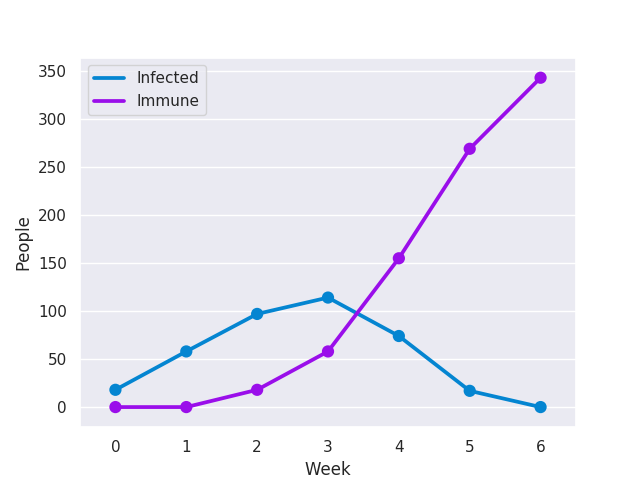
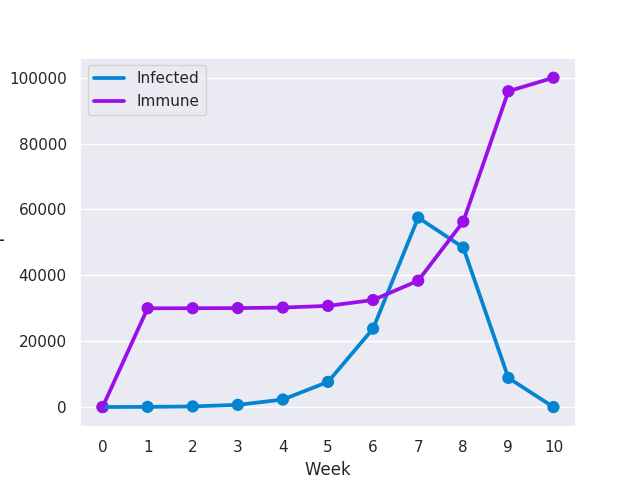
Finished HW2 Code, Messy, No Report

diff --git a/HW_2/spread_of_disease.py b/HW_2/spread_of_disease.py
@@ -9,6 +9,12 @@ The disease lasts three weeks
 Everyone has the same odds of being exposed
 This week there are 40 new cases
 This week, it is estimated that 30% of the existing population is immune because of previous exposure.
+
+The number of infected people surpasses what should actually happen
+* Fix the number of people that get infected
+* Redo the whole thing b/c it would be faster?
+
+
 '''
 
 import numpy as np
@@ -31,22 +37,24 @@ def plot_data(data):
 
     f, ax = plt.subplots(1, 1)
 
-    print(data)
+    # print(data)
 
     sns.pointplot(ax=ax, x="Week_Number", y="Sick_People", data=data, color=sns.xkcd_rgb["cerulean"])
     sns.pointplot(ax=ax, x="Week_Number", y="Immune_People", data=data, color=sns.xkcd_rgb["violet"])
+    sns.pointplot(ax=ax, x="Week_Number", y="Susceptible_People", data=data, color=sns.xkcd_rgb["kelly green"])
 
-    ax.legend(handles=ax.lines[::len(data)+1],  labels=["Infected","Immune","Healthy"])
+    ax.legend(handles=ax.lines[::len(data)+1],  labels=["Infected","Immune","Susceptible"])
 
     plt.xlabel('Week')
     plt.ylabel('People')
 
     plt.show()
 
+
 def infection(total_pop):
 
     week_num = 2
-    immune = 0
+    immune = (total_pop-18)*(.3)
     sick = 58
     vulnerable_pop = total_pop - 18 - 40
 
@@ -61,40 +69,108 @@ def infection(total_pop):
 
     '''
 
-    sick_constant = 0.00057157/15
+    # sick_constant = 0.00057157/15
+    sick_constant = 0.00003175174706050264
 
     # Sick data is the number of people that have the virus
     '''
-    sick_data[0] = Week Number
-    sick_data[1] = Number of Infected
-    sick_data[2] = Number of Immune
-    sick_data[3] = Number of Healthy
+    sick_data[0] = Week_Number
+    sick_data[1] = Sick_People
+    sick_data[2] = New_Cases
+    sick_data[3] = Immune_People
+    sick_data[4] = Got_Better
+    sick_data[5] = Susceptible_People
     '''
-    sick_data = [[0,18,0,100000-18],[1,58,0,100000-58]]
+
+    sick_data = [[0,18,18,0,0,100000-18],[1,58,40,(total_pop-18)*(.3),(total_pop-18)*(.3),100000-18-((total_pop-18)*(.3))]]
+
+    # Current number of people that are susceptible
+    # print(sick_data[week_num-1][-1])
+
+    susceptible = sick_data[1][-1]
+
+    # df.columns = ['Week_Number', 'Sick_People', 'Sick_Delta', 'Immune_People', 'Immune_Delta', 'Susceptible_People']
+
+
     # How many people have the virus to start with
 
     # Pevious data is the number of people that developed
     # the virus for a given week, where week # is given by
     # the index of the element. Yes, weeks start at zero.
+
+    # Change the name of this variable
+    # We no longer even need this variable
+
     prev_data = [18,40]
 
 
     # while(immune != total_pop):
-    while(immune <= total_pop):
+
+    # while(immune <= total_pop):
+    while(sick > 0):
 
         if(week_num >= 2):
             # People can start to get better
 
             # delta is the number of people that just got the disease this week
 
-            delta = (vulnerable_pop - sick - immune)*(sick_constant)*sick
+            # susceptible = vulnerable_pop - sick - immune
+            # susceptible = sick_data[week_num-1][-1]
+
+            # print(susceptible)
+
+            # if (susceptible < 0):
+            #     susceptible = 0
+
+            '''
+            The number of people that develop the disease is equal to the
+            number of people that can get the disease times the number of
+            interactions susceptible people have with infected, times the
+            probability that one become infected when one interacts with
+            someone that is infected
+            '''
+
+            delta = (susceptible)*sick_data[week_num-1][1]*(sick_constant)
+
 
             # prev_data is the number of people that are now immune
 
-            sick = sick + delta - prev_data[0]
+            # if (sick + delta - prev_data[0] < 0):
+            #     print("Sick: {} Delta: {} Prev_Data[0]: {}".format(sick, delta, prev_data[0]))
+
+            # sick = sick + delta - prev_data[0]
+
+            # print(sick_data[week_num-1][1])
+            # print(delta)
+            # print(sick_data[week_num-2][2])
+
+            if (week_num < 3):
+                sick = sick_data[week_num-1][1] + delta
+
+            # Last term is for people getting better
+
+            elif (week_num >= 3):
+                sick = sick_data[week_num-1][1] + delta - sick_data[week_num-3][2]
+                # print(sick_data[week_num-1][1])
+                # print(delta)
+                # print(sick_data[week_num-3][2])
+
+            # print(sick)
+
+            # print("Prev_Data: {} Sick_Data: {}".format(prev_data[0], sick_data[week_num-3][4]))
+            # print(week_num)
+            # print("Sick_Data: {}".format(sick_data[week_num-3][4]))
 
 
-            immune += prev_data[0]
+            # immune += prev_data[0]
+
+
+            if (week_num < 3):
+                immune += 0
+
+            if (week_num >= 3):
+                immune += sick_data[week_num-3][2]
+
 
             # These prevent the model from producing unrealistic data-points
 
@@ -107,28 +183,70 @@ def infection(total_pop):
             if (sick>100000):
                 sick = 100000
 
-            sick_data.append([week_num, sick, immune, 100000-sick])
 
-            prev_data = adjust_data(prev_data, sick)
+            if (week_num < 3):
+
+                susceptible = sick_data[week_num-1][-1]-delta
+
+                if (susceptible < 0):
+                    susceptible = 0
+
+                # sick_data.append([week_num, sick, delta, immune, 0, sick_data[week_num-1][-1]-delta])
+
+                sick_data.append([week_num, sick, delta, immune, 0, susceptible])
+
+            elif (week_num >= 3):
+
+                susceptible = sick_data[week_num-1][-1]-delta-sick_data[week_num-3][2]
+
+                if (susceptible < 0):
+                    susceptible = 0
+
+                sick_data.append([week_num, sick, delta, immune, sick_data[week_num-3][2], susceptible])
+
+            # prev_data = adjust_data(prev_data, sick)
+
+            # Found the bug, was using the number of people that were sick
+            # instead of the number of people that just caught the disease
+
+            # prev_data = adjust_data(prev_data, delta)
 
             week_num += 1
 
             if (sick<=0):
-                print("Immune: {} Sick: {} Total Pop: {}".format(immune, sick, total_pop))
+                # print("Immune: {} Sick: {} Total Pop: {}".format(immune, sick, total_pop))
                 break
             if (sick>=100000):
                 break
 
 
-    df = pd.DataFrame(sick_data, columns={'$a':sick_data[0],'$b':sick_data[1],'$c':sick_data[2],'$d':sick_data[3]})
+    # df = pd.DataFrame(sick_data, columns={'$a':sick_data[0],'$b':sick_data[1],'$c':sick_data[2],'$d':sick_data[3],'$e':sick_data[4], '$f':sick_data[5]})
+    # df = pd.DataFrame(sick_data, columns={'$0':sick_data[0], '$1':sick_data[1], '$2':sick_data[2], '$3':sick_data[3]})
+    # df = pd.DataFrame(sick_data, columns={'$a':sick_data[0],'$b':sick_data[1],'$c':sick_data[2],'$d':sick_data[3],'$e':sick_data[4], '$f':sick_data[5]})
 
-    df.columns = ['Week_Number','Sick_People','Immune_People','Healty_People']
+
+    # print(sick_data)
+
+
+
+    df = pd.DataFrame(sick_data, columns = ['Week_Number', 'Sick_People', 'New_Cases', 'Immune_People', 'Became_Immune', 'Susceptible_People'])
+
+
+    # df.rename({'$a':'a', '$b':'b', '$c':'c', '$d':'d', '$e':'e'}, axis='columns')
+
 
     print(df)
+    #
+    # df = df.rename(columns={'0': 'newName1', '1': 'newName2'})
+
+
+    # df.columns = ['Week_Number', 'Sick_People', 'New_Cases', 'Immune_People', 'Got_Better', 'Susceptible_People']
+
+    # print(df)
 
     plot_data(df)
 
-    print("Done")
+    # print("Done")
 
 def main():
 

diff --git a/HW_2/Eli_Sylvia_Lourde_Disease_Report.tex b/HW_2/Eli_Sylvia_Lourde_Disease_Report.tex
@@ -59,6 +59,8 @@ people develop cases of the sickness.
 That the second week the infection is introduced into the population, 40
 people develop cases of the sickness.
 \item
+People recover on their third week on getting the disease, not after their third week of getting the disease.
+\item
 That the 30\% of people that are immune in week 2 are immune via genetic trait.
 \end{enumerate}
 
@@ -73,6 +75,7 @@ This reads as the following: the number of people that have the disease in week 
 \section*{People Who Become Infected}
 
 
+% \includegraphics{Actual_Spread.png}
 \includegraphics{Actual_Spread.png}
 
 As shown by the figure above, the disease infects everyone by week three. If we decrease our k-value by a factor of fifteen, everyone is immune to the disease by week 8.
@@ -90,5 +93,5 @@ If we continue to decrease the k-value, the infection spreads slower, which lead
 
 % \section*{Conclusions}
 % The conclusion should address the solutions to the problem in a straight forward fashion. The results should be in terms that the one posing the question can understand. Frequently questions requiring a model are stated in non-technical terms, and so the answer should stated in a way that the person posing the question can understand.
-% 
+%
 \end{document} % this ends your document
